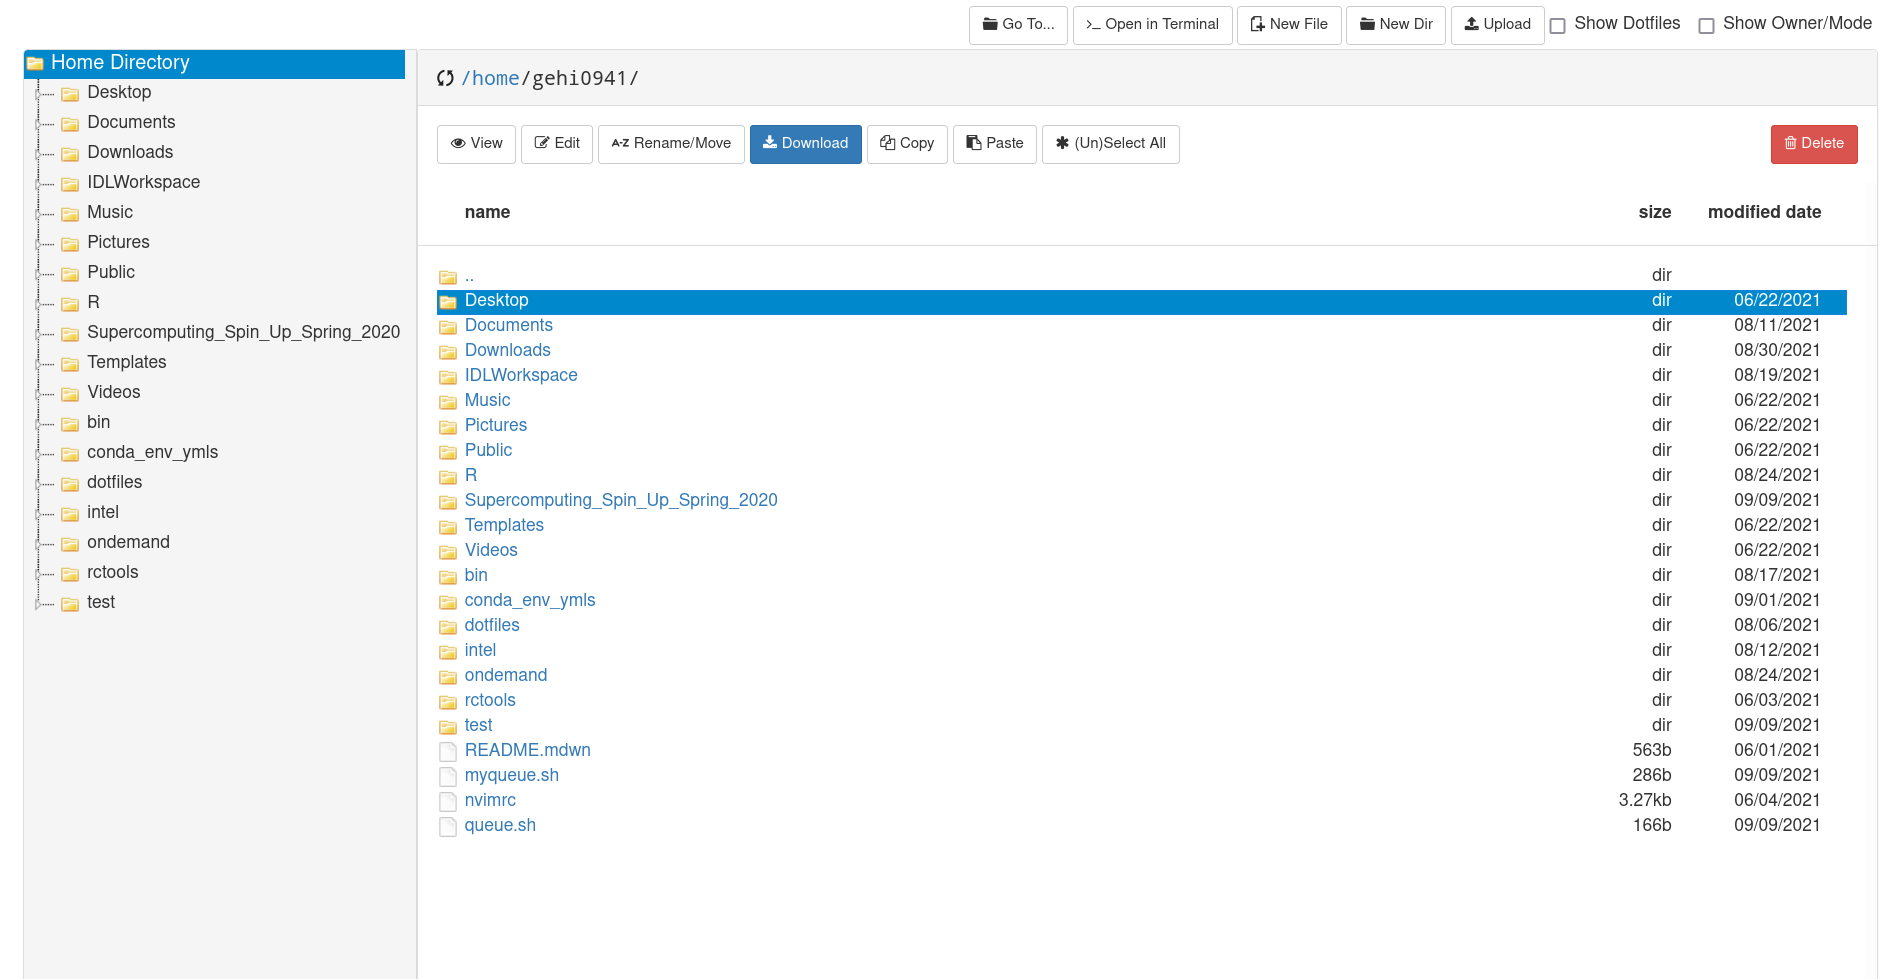
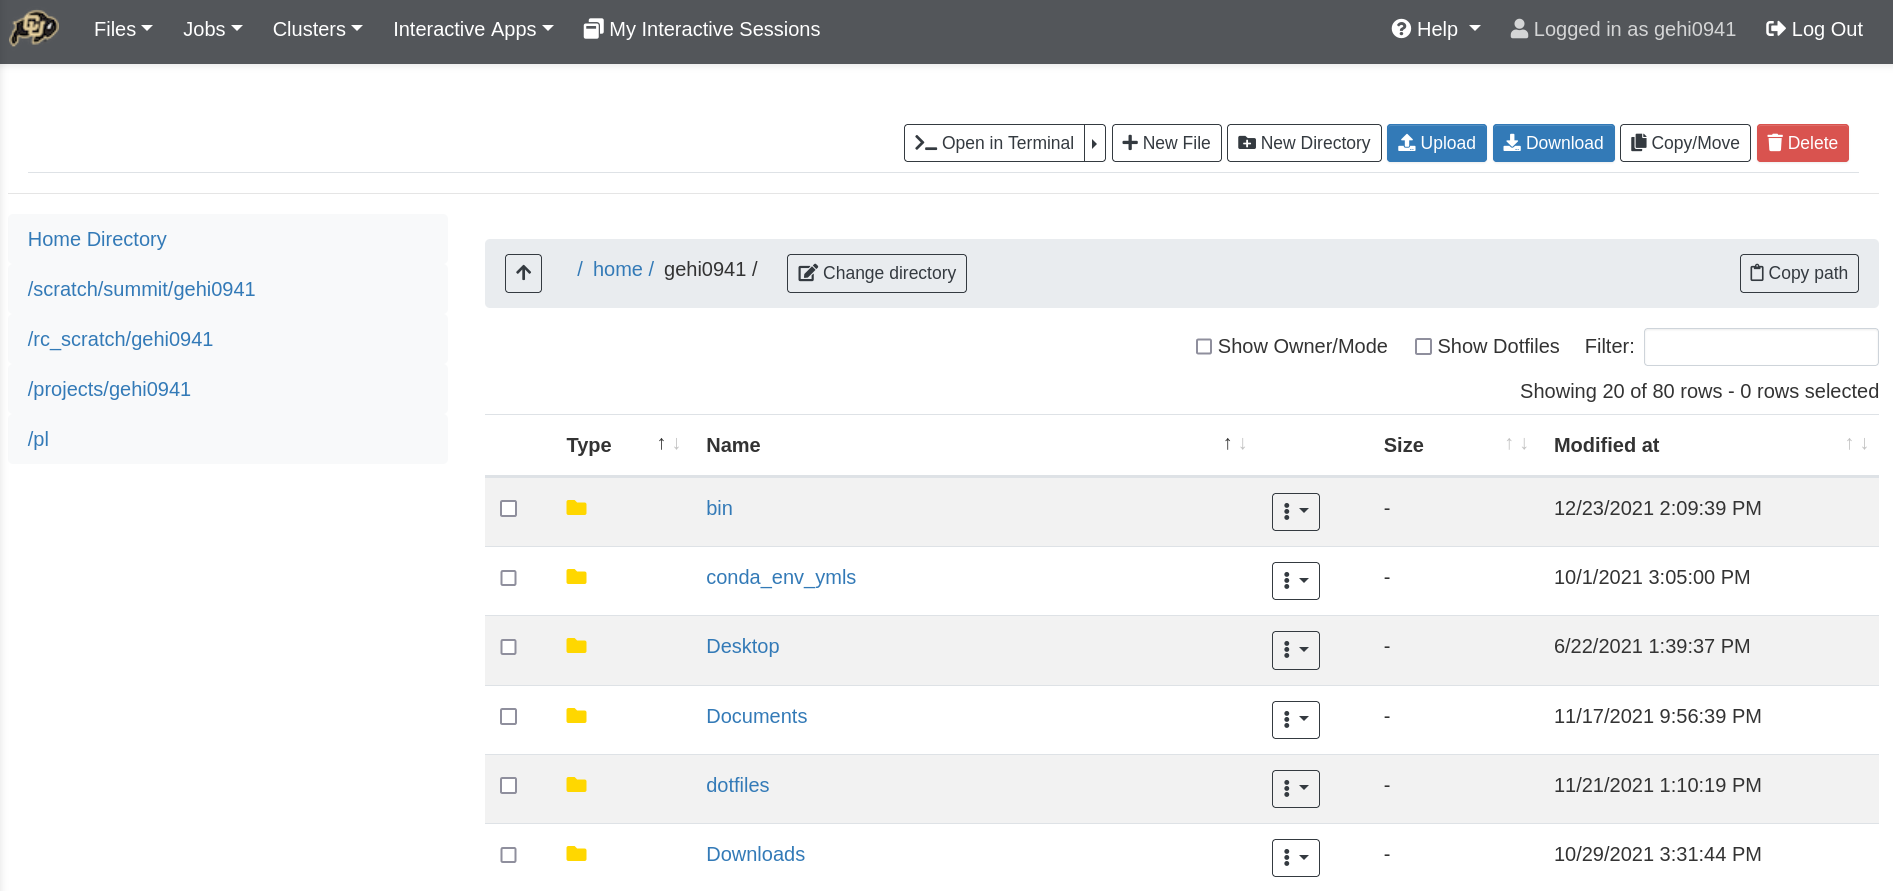
work on features section, add up to date images

diff --git a/docs/gateways/OnDemand.md b/docs/gateways/OnDemand.md
@@ -20,39 +20,45 @@ When you have successfully logged into CU Open OnDemand you will see the landing
 
 ![](OnDemand/landing_page.png)
 
-#### File Menu
+We'll step through these features one at a time.
 
-The _File_ menu allows you to view and operate on files in three different file spaces: your _home_ directory, _projects_ directory, and (if applicable) shared _PetaLibary_ directories.
+#### Files
+
+The _File_ menu allows you to view and operate on files in different file spaces: your _home_ directory, _projects_ directory, scratch spaces, and (if you own one or are part of a group with one) access to _PetaLibary_ allocations.
 
 Selecting one of the file spaces will open a separate browser window which will allow you to navigate the space in a graphical setting similar to a file browser on a personal computer. From here you can download, upload, create, delete, and open files.
 
-> **_NOTE 1:_** _Use [Globus](https://curc.readthedocs.io/en/latest/compute/data-transfer.html#globus-transfers) to transfer files to `/scratch/summit` or `/rc_scratch.`_
-
-> **_NOTE 2:_** _If you have more than 1 GB of data to transfer, please use [Globus](https://curc.readthedocs.io/en/latest/compute/data-transfer.html#globus-transfers)._
+> **_NOTE:_** _Please use [Globus](https://curc.readthedocs.io/en/latest/compute/data-transfer.html#globus-transfers) to transfer files to/from `/scratch/summit` or `/rc_scratch` or if you have more than 1 GB of data to transfer. OnDemand is not designed to handle large file transfers._
 
 ![](OnDemand/home_file.png)
 
-For additional documentation visit [OSC's File Transfer and Management help page](https://www.osc.edu/resources/online_portals/ondemand/file_transfer_and_management).
+> For additional documentation visit [OSC's File Transfer and Management help page](https://www.osc.edu/resources/online_portals/ondemand/file_transfer_and_management).
 
-#### Jobs Menu
+#### Jobs 
 
 Jobs can be monitored, created, edited and scheduled with the job management tools under the _Jobs_ menu.
 
-* __Active Jobs:__ Under the “Active Jobs” tab you can view active jobs. You can choose to view your jobs (or all jobs) as well as choose from specific clusters (Blanca, Summit, Viz-Core, or all Custers). From this menu you can cancel your own jobs.
+* __Active Jobs:__ Under the “Active Jobs” tab you can view active jobs. You can choose to view your jobs (or all jobs) as well as choose from specific clusters (Alpine, Core, Summit, or All Clusters). From this menu you can cancel your own jobs.
 
 ![](OnDemand/active_jobs.png)
 
-* __Job Composer:__ Create and edit job scripts and schedule jobs under this menu. [OSC's Job Management help page](https://www.osc.edu/resources/online_portals/ondemand/job_management) provides details on its use.
+* __Job Composer:__ Create and edit job scripts and schedule jobs under this menu.
+
+> See [OSC's Job Management help page](https://www.osc.edu/resources/online_portals/ondemand/job_management) for detailed use of the job composer feature.
 
 ![](OnDemand/job_composer.png)
 
-#### Clusters Menu (i.e. Shell Access)
+#### Clusters (Shell Access)
 
 The _Clusters_ menu provides shell access to login nodes on CURC clusters. The shell terminal is similar to many other tools that provide terminal access.
 
+> Currently both Summit and Alpine shells log you into a basic login node, you can load in either Alpine, Summit, or Blanca slurm instances from here: `module load slurm/<cluster>` with either summit, alpine, or blanca.
+
+* __Alpine:__ The Alpine tab will launch a terminal that RC users can use to manually access an RC Login node. After the tab opens, type your CURC password and accept the Duo push to your phone to complete login to the terminal.
+
 * __Summit:__ The Summit tab will launch a terminal that RC users can use to manually access an RC Login node. After the tab opens, type your CURC password and accept the Duo push to your phone to complete login to the terminal.
 
-* __Blanca:__ The Blanca tab will launch a terminal that RC users can use to manually access an RC Login node. After the tab opens, type your CURC password and accept the Duo push to your phone to complete login to the terminal. To load the Blanca Slurm environment, make sure to type “module load slurm/blanca upon login. More information on using the Blanca cluster can be found [in the Blanca documentation](https://curc.readthedocs.io/en/latest/access/blanca.html).
+<!-- * __Blanca:__ The Blanca tab will launch a terminal that RC users can use to manually access an RC Login node. After the tab opens, type your CURC password and accept the Duo push to your phone to complete login to the terminal. To load the Blanca Slurm environment, make sure to type “module load slurm/blanca upon login. More information on using the Blanca cluster can be found [in the Blanca documentation](https://curc.readthedocs.io/en/latest/access/blanca.html). -->
 
 #### Interactive Applications Menu
 
